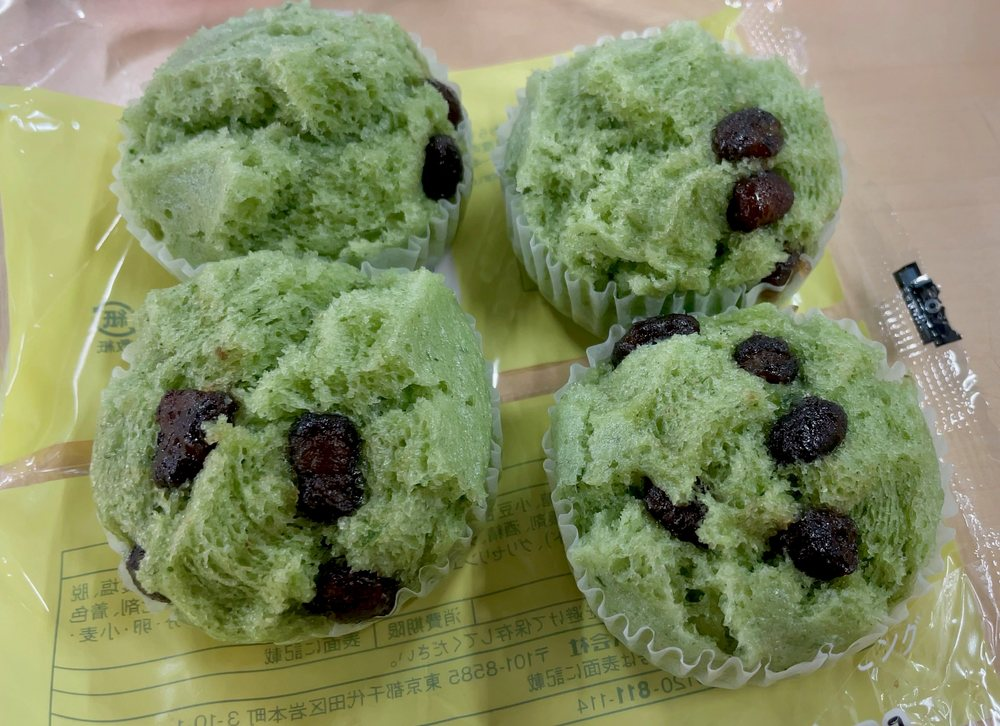
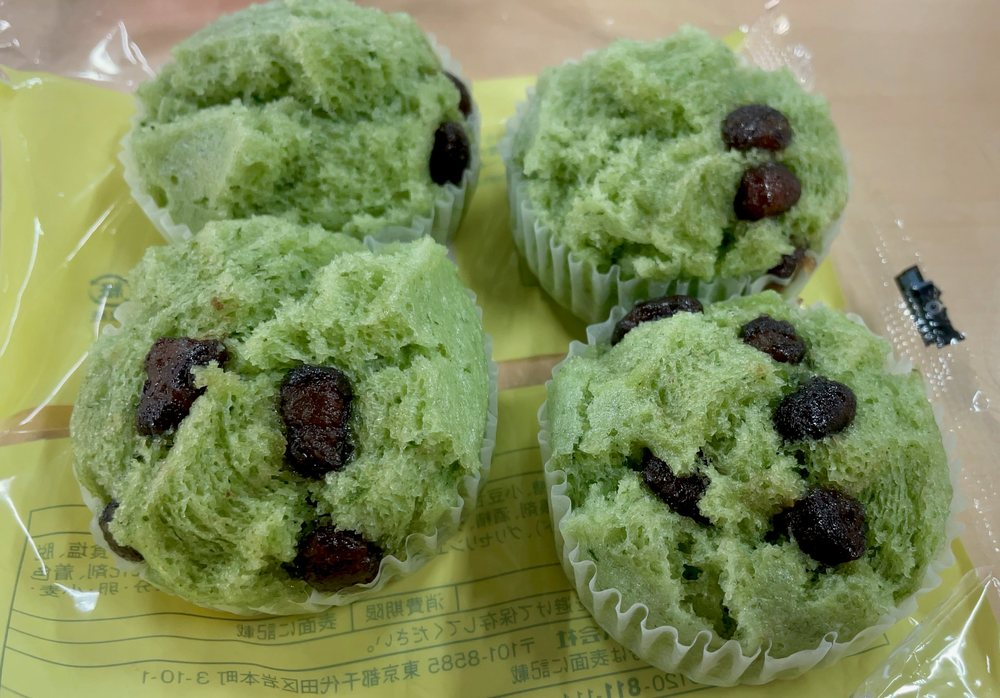
bread: use full-size original for yomogi mushipan photo
Claude-Session: https://claude.ai/code/session_01YLWmcJo1H8SSeUtyNTQSdC

diff --git a/_tools/culture/bread.py b/_tools/culture/bread.py
@@ -5,7 +5,7 @@ A='/mnt/user-data/attachments/fd332c08-3f6b-545a-883b-83277e19ff52/'
 S='bread'
 OUT=f'{R}/culture/{S}'
 os.makedirs(OUT+'/images',exist_ok=True)
-photos={'melon':('a979011d-image.jpg',1200),'anpan':('60f4abb2-image.jpg',1000),'curry':('5cbe84b8-image.jpg',1000),'yakisoba':('5b6ab78a-image.jpg',1000),'agepan':('c776a767-image.jpg',1000),'croquette':('923ce486-image.jpg',1000),'cornet':('0e15151b-image.jpg',700),'menchi':('e47dc74b-image.jpg',640),'tamago':('1cf92e48-image.jpg',1000),'fruit':('82f76ef5-image.jpg',689),'ogura':('896abc06-image.jpg',900),'oyaki':('d1256580-image.jpg',1000),'satsuma':('6efa4385-image.jpg',1000),'raisin':('1c1c5aa4-image.jpg',1000),'yomogi':('31b925aa-image.jpg',1000),'oyaki2':('79370c3e-image.jpg',1000),'nikuman':('d6858203-image.jpg',1000)}
+photos={'melon':('a979011d-image.jpg',1200),'anpan':('60f4abb2-image.jpg',1000),'curry':('5cbe84b8-image.jpg',1000),'yakisoba':('5b6ab78a-image.jpg',1000),'agepan':('c776a767-image.jpg',1000),'croquette':('923ce486-image.jpg',1000),'cornet':('0e15151b-image.jpg',700),'menchi':('e47dc74b-image.jpg',640),'tamago':('1cf92e48-image.jpg',1000),'fruit':('82f76ef5-image.jpg',689),'ogura':('896abc06-image.jpg',900),'oyaki':('d1256580-image.jpg',1000),'satsuma':('6efa4385-image.jpg',1000),'raisin':('1c1c5aa4-image.jpg',1000),'yomogi':('4a470d29-image.jpg',1000),'oyaki2':('79370c3e-image.jpg',1000),'nikuman':('d6858203-image.jpg',1000)}
 for k,(f,mw) in photos.items():
     im=Image.open(A+f).convert('RGB');w,h=im.size
     if w>mw: im=im.resize((mw,round(h*mw/w)),Image.LANCZOS)

diff --git a/CLAUDE.md b/CLAUDE.md
@@ -394,4 +394,4 @@
 - 2026-11-08 wagashi：練り切り（#nerikiri：Nesnad CC BY 4.0・2021-07-09、各菓子名は断定せず／出典Jeepe）と新節#snacks「Not Quite Wagashi」（五平餅2枚：Kunmap CC BY-SA 4.0・2013-10-28／円周率３パーセント CC BY-SA 4.0・2024-09-21＝出典FUN! JAPAN・MAFF、大学芋：Ocdp CC0・2021-07-03＝Food in Japan、名の由来は不明と記載）を追加。計21枚、FAQ14問。PHOTO-CREDITS.csv追記済み。使用せず：チョコモナカジャンボ（商品写真）。【写真本体待ち（スクショ受領済み）】あんみつ（kumon 2005-03-06 CC BY 2.0／jetalone 2007-05-23 CC BY 2.0）、甘納豆（Ocdp 2022-02-10 CC0）、きんつば（katorisi 2007-10-21 CC BY 3.0／Kawazure135 2025-04-15 CC BY-SA 4.0）。【未対応】インデックス登録（culture/wagashi/ ほか）
 - 2026-11-08 wagashi：新節4つ（#anmitsu：kumon CC BY 2.0・2005／jetalone CC BY 2.0・2007／小太刀 CC BY-SA 3.0・2007 抹茶かき氷、出典Food in Japan。#kintsuba：katorisi CC BY 3.0・2007／Kawazure135 CC BY-SA 4.0・2025、出典Japanese Products blog。#beans：甘納豆 Ocdp CC0／豆大福 Ocdp CC0、出典Japanese Products・Suzukake（単独の店の商品と明記）。#crackers：南部せんべい Quercus acuta CC BY-SA 4.0／米菓 Kropsoq CC BY-SA 3.0＝出典Japanese Products blog）。計30枚、FAQ18問。使用せず：歌舞伎揚（商品名）、ちんすこう（包装にブランド）、かりんとう（商品名）、重複の大学芋。PHOTO-CREDITS.csv追記済み。【未対応】インデックス登録（culture/wagashi/ ほか）
 - 2026-11-08 culture/bread：コロッケパン（korokke pan）を紹介（Food in Japan／Tasting Table：ソースは資料間で差、1927チョウシ屋は単独の主張と明記）、カレーパンとの写真キャプション修正。新節#steamed「Steamed Breads and Oyaki」：蒸しパン（Japanese Taste）、おやき（MAFF／Food in Japan）。写真3枚：おやき Ocdp CC0・2021-11-27／さつまいも蒸しパン KKPCW CC BY-SA 4.0・2023-03-19／レーズン蒸しパン Kyu3a CC BY-SA 4.0・2023-11-30。FAQ追加。PHOTO-CREDITS.csv追記済み。【保留・スクショ待ち】緑の蒸しパン（小豆入り・包装・31b925aa）と断面のおやき（79370c3e）は作者・ライセンスのスクショが見当たらず未使用。Qurrenのよもぎ饅頭（2024-12-22）のスクショは写真本体なし
-- 2026-11-08 culture/bread：#steamedに写真3枚追加（よもぎ蒸しパン Kyu3a CC BY-SA 4.0・2024-02-17＝包装入り、ブランド名は写らず／切干大根のおやき断面 Qurren CC BY-SA 4.0・2023-06-10＝Commonsの説明は市販品名だが写真にブランド表示なし・本文は商品名を出さず／肉まん Hsaifsa CC0・Commons日付2022-06-06＝神楽坂の店）。新h3「Nikuman」（出典：Japanese Products blog／Japan Travel（神楽坂五十番・1957創業）。100年前に中国から＝出典なしと明記）。【要確認】よもぎ蒸しパンのスクショ寸法3097×2160と写真2576×1871の縦横比が微妙に違う（外観は一致）。おやき断面の写真とQurrenスクショのサムネイルは未確認（切干大根の説明と内容が一致）。計6枚追加で保留ゼロ。【未対応】Qurrenよもぎ饅頭の写真本体
+- 2026-11-08 culture/bread：#steamedに写真3枚追加（よもぎ蒸しパン Kyu3a CC BY-SA 4.0・2024-02-17＝包装入り、ブランド名は写らず／切干大根のおやき断面 Qurren CC BY-SA 4.0・2023-06-10＝Commonsの説明は市販品名だが写真にブランド表示なし・本文は商品名を出さず／肉まん Hsaifsa CC0・Commons日付2022-06-06＝神楽坂の店）。新h3「Nikuman」（出典：Japanese Products blog／Japan Travel（神楽坂五十番・1957創業）。100年前に中国から＝出典なしと明記）。よもぎ蒸しパンは3097×2160の原本（4a470d29）に差し替え済み（スクショ寸法と一致）。おやき断面の写真とQurrenスクショのサムネイルは未確認（切干大根の説明と内容が一致）。計6枚追加で保留ゼロ。【未対応】Qurrenよもぎ饅頭の写真本体
